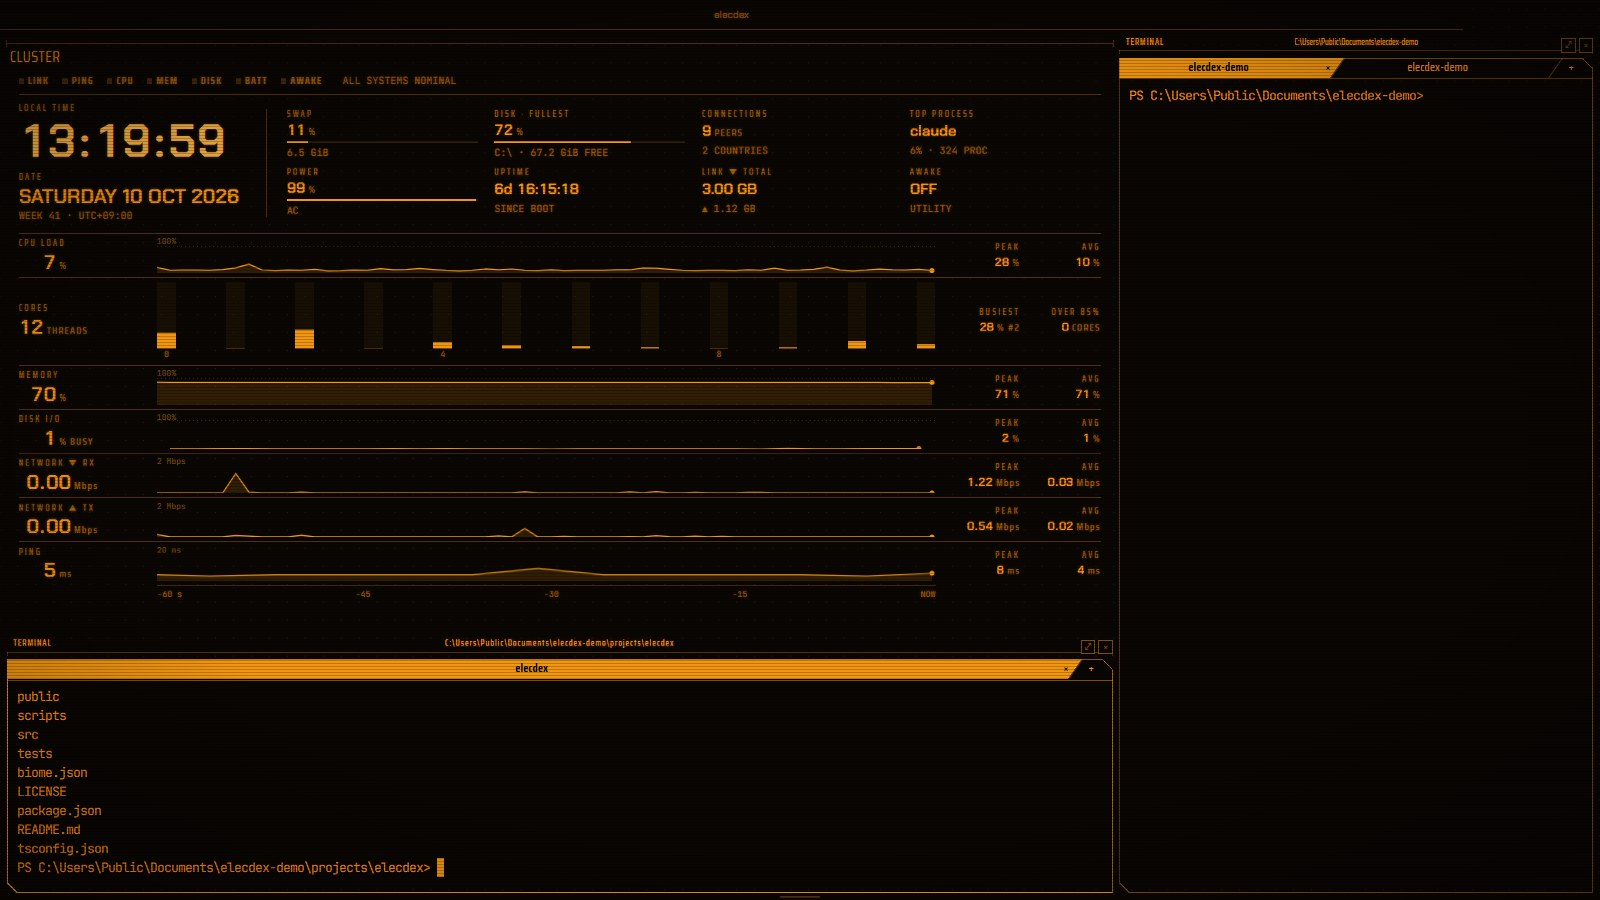
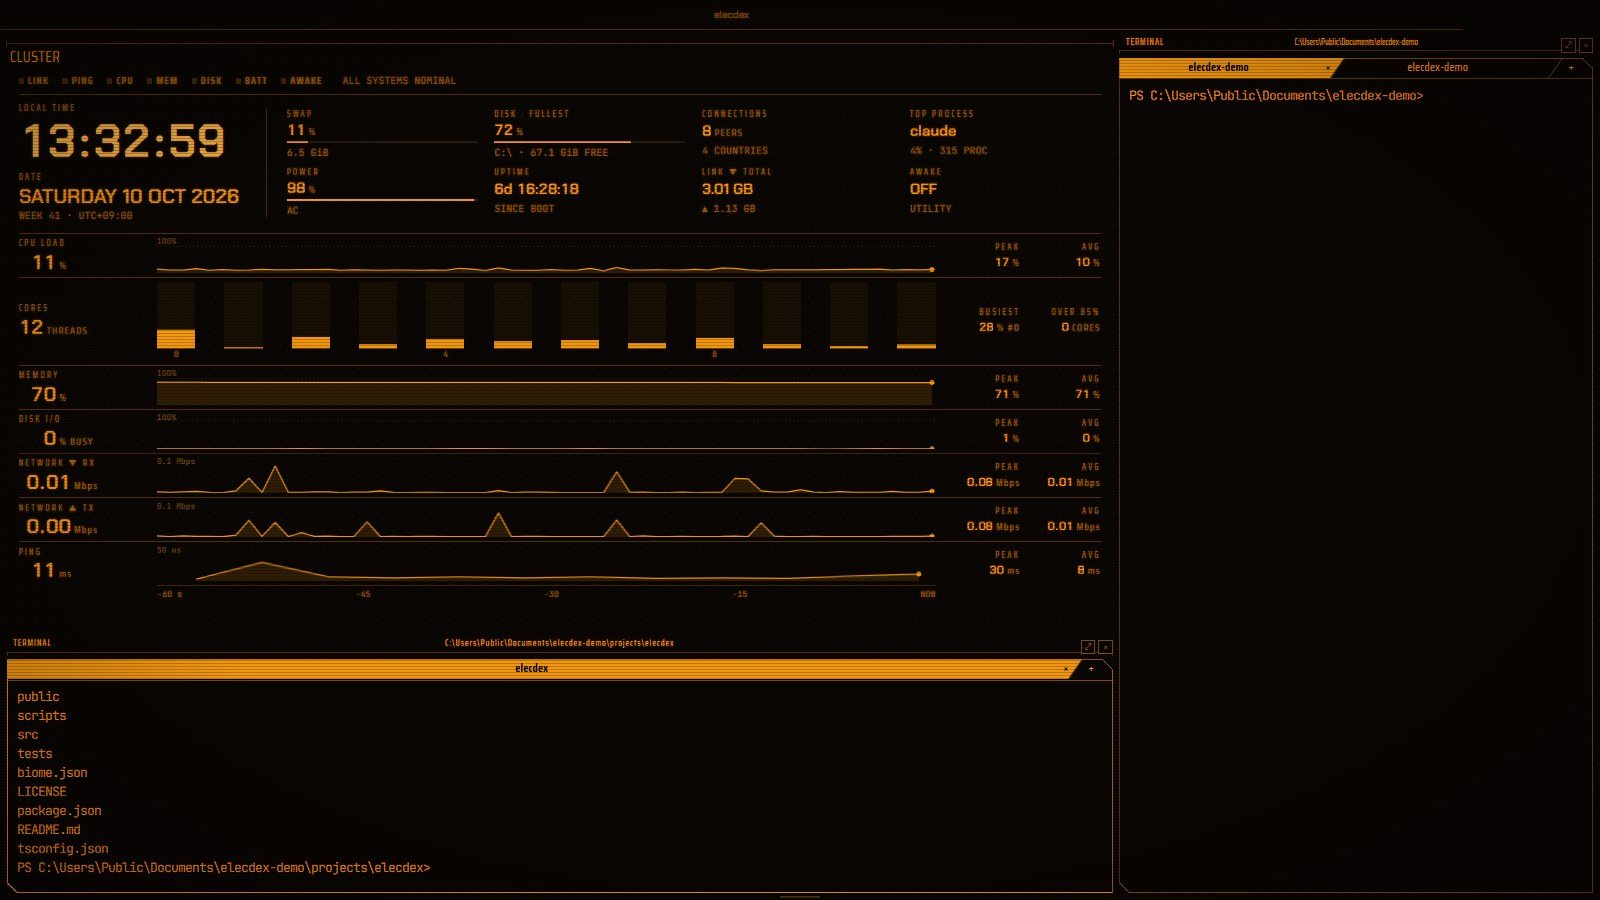
feat(cluster): core bars widen with the pane / コアの棒をペインの幅に合わせて広げる
Each bar takes a little over half its core's share of the row, the gap the rest, so a wide pane no longer leaves thin bars far apart. / 各棒が 1 コアぶんの幅の半分強を占め、残りを隙間にする。広いペインで細い棒がまばらに並ばない。

diff --git a/src/renderer/widgets/cluster/CoreBars.svelte b/src/renderer/widgets/cluster/CoreBars.svelte
@@ -18,7 +18,13 @@ const bars = $derived(groupCores(cores))
 const per = $derived(bars.length === 0 ? 1 : Math.ceil(cores.length / bars.length))
 </script>
 
-<div class="cores" data-testid="cluster-cores" role="img" aria-label="load of each core">
+<div
+  class="cores"
+  data-testid="cluster-cores"
+  role="img"
+  aria-label="load of each core"
+  style:--count={Math.max(1, bars.length)}
+>
   {#each bars as load, i (i)}
     <span class="core" data-level={cpuLevel(load)}>
       <i style:--fill={Math.min(1, Math.max(0, load / 100))}></i>
@@ -31,10 +37,10 @@ const per = $derived(bars.length === 0 ? 1 : Math.ceil(cores.length / bars.lengt
 .cores {
   display: grid;
   grid-auto-flow: column;
-  /* Bars no wider than a lane's thin ones read: spread over the row, never slabs. */
-  grid-auto-columns: minmax(0, 1.4rem);
-  justify-content: space-between;
-  gap: 3px;
+  /* Each bar a little over half its core's share of the width, so they widen with the pane
+     and the row reads as a set of gauges at any size (user's request 2026-10-10). */
+  grid-auto-columns: minmax(0, 1fr);
+  column-gap: max(3px, calc(45% / var(--count)));
   height: 100%;
   min-height: 0;
 }
